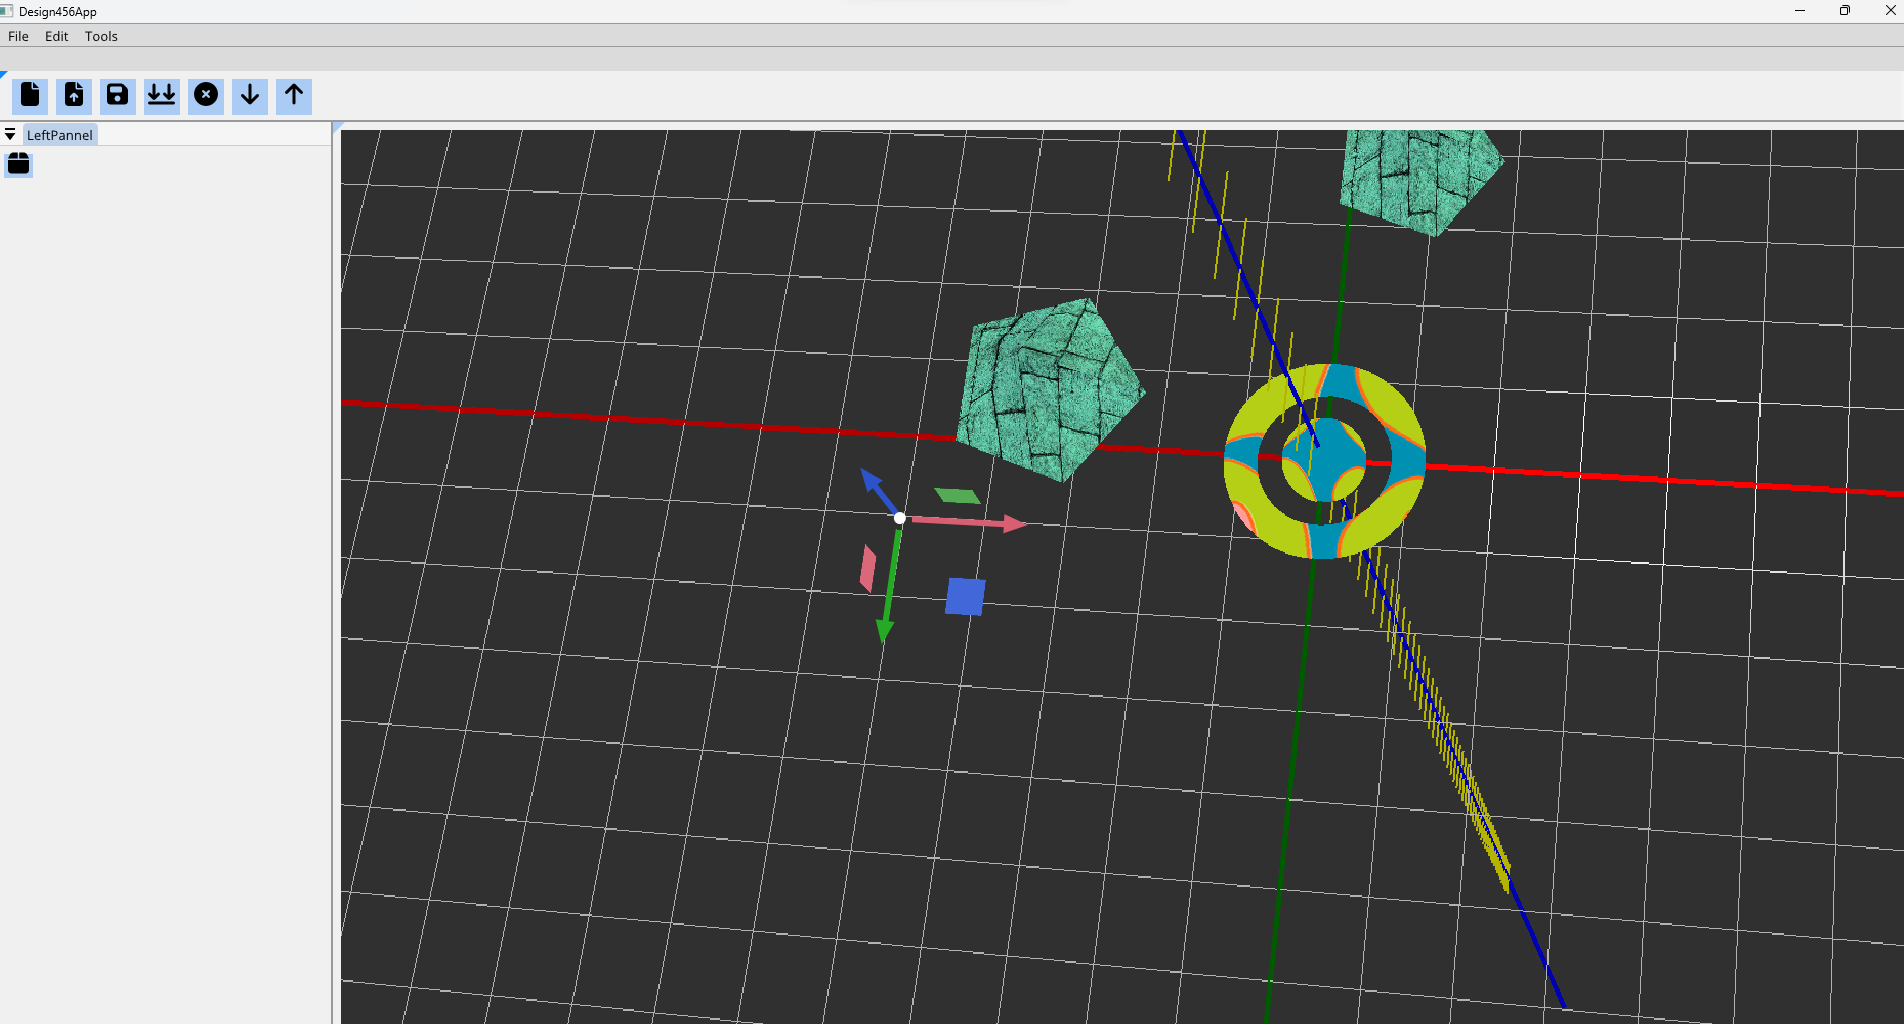
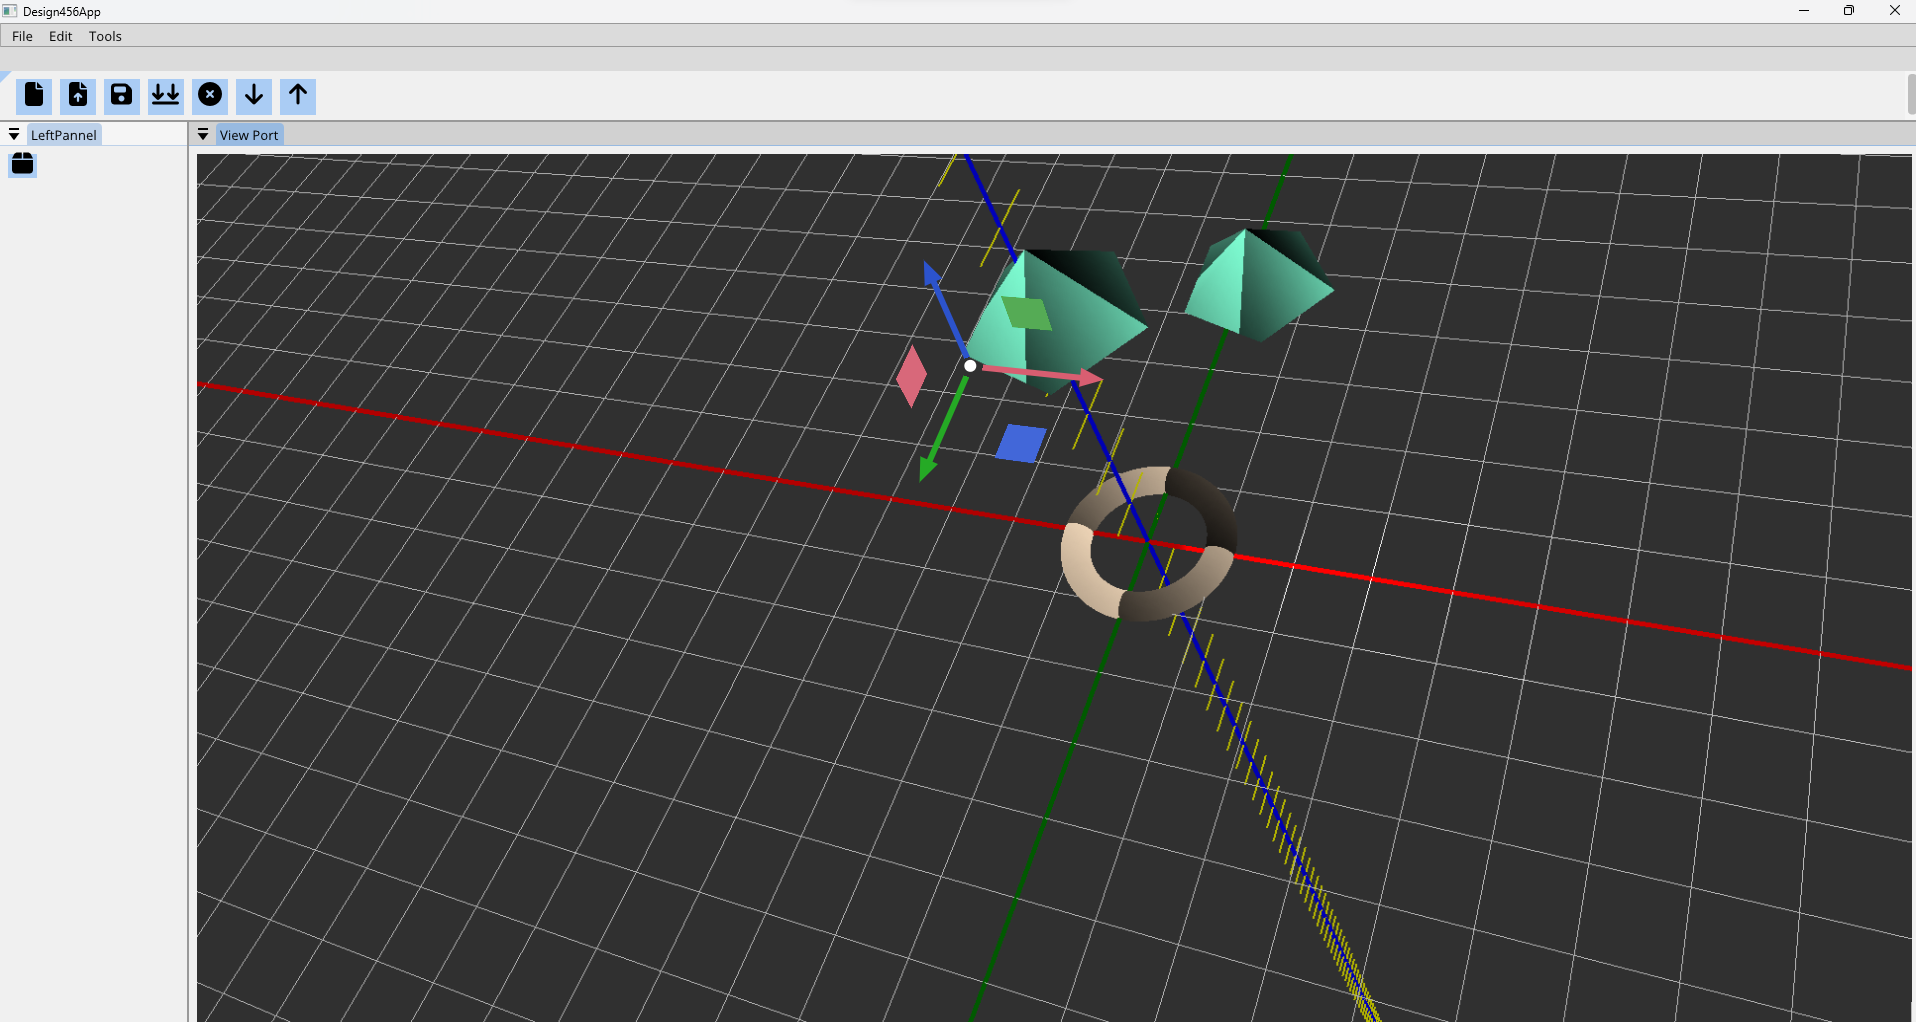
fix default texture

diff --git a/frtk/src/fr_texture2d.cpp b/frtk/src/fr_texture2d.cpp
@@ -9,14 +9,14 @@ Fr_Texture2D::Fr_Texture2D() {
     m_LocalBuffer = NULL;
     m_RendererID = -1;
 }
-bool Fr_Texture2D::set2DTexture(std::string& path) {
+bool Fr_Texture2D::set2DTexture(std::string path) {
     m_FilePath = path;
     m_BPP = 0;
     numComponents = 0;
     stbi_set_flip_vertically_on_load(1);
     m_LocalBuffer = 0;
     if (m_FilePath.size() == 0) {
-        m_FilePath = "E:/Projects/Design456App/resources/Texture/4.png";    ///Default texture 
+        m_FilePath = "E:/Projects/Design456App/resources/Texture/default.png";    ///Default texture 
     }
     m_LocalBuffer = stbi_load(m_FilePath.c_str(), &m_width, &m_height, &m_BPP, numComponents);
     if (m_LocalBuffer == NULL) {
@@ -26,6 +26,9 @@ bool Fr_Texture2D::set2DTexture(std::string& path) {
     return true;
 }
 bool Fr_Texture2D::setup2DTexture() {
+    if (m_LocalBuffer == NULL) {
+        set2DTexture();
+    }
     glCheckFunc(glCreateTextures(GL_TEXTURE_2D, 1, &m_RendererID));
     if (m_BPP == 3) {
         glCheckFunc(glTextureStorage2D(m_RendererID, 1, GL_RGB8, m_width, m_height));
@@ -33,8 +36,8 @@ bool Fr_Texture2D::setup2DTexture() {
     else if (m_BPP == 4) {
         glCheckFunc(glTextureStorage2D(m_RendererID, 1, GL_RGBA8, m_width, m_height));
     }
-    glCheckFunc(glTexParameteri(GL_TEXTURE_2D, GL_TEXTURE_MIN_FILTER, GL_LINEAR));
-    glCheckFunc(glTexParameteri(GL_TEXTURE_2D, GL_TEXTURE_MAG_FILTER, GL_LINEAR));
+    glCheckFunc(glTexParameteri(GL_TEXTURE_2D, GL_TEXTURE_MIN_FILTER, GL_NEAREST));
+    glCheckFunc(glTexParameteri(GL_TEXTURE_2D, GL_TEXTURE_MAG_FILTER, GL_NEAREST));
     glCheckFunc(glTexParameteri(GL_TEXTURE_2D, GL_TEXTURE_WRAP_S, GL_CLAMP_TO_EDGE));
     glCheckFunc(glTexParameteri(GL_TEXTURE_2D, GL_TEXTURE_WRAP_T, GL_CLAMP_TO_EDGE));
     if (m_BPP == 3) {

diff --git a/frtk/src/fr_scene.cpp b/frtk/src/fr_scene.cpp
@@ -67,14 +67,14 @@ void Scene::add3DObject(std::string fName)
   //  std::string imag = ("E:/Projects/Design456App/resources/Texture/ts.png");
     //std::string imag = ("E:/Projects/Design456App/resources/Texture/2.png");
     //std::string imag = ("E:/Projects/Design456App/resources/Texture/3.png");
-    std::string imag = ("E:/Projects/Design456App/resources/Texture/default.png");
+    //std::string imag = ("E:/Projects/Design456App/resources/Texture/default.png");
     
-    if (newObj->m_Texture2D->set2DTexture(imag))
-    {
-            newObj->m_Texture2D->setup2DTexture();      //Dont forget to do this always
-    }else
-        DEBUG_BREAK;
-
+    //if (newObj->m_Texture2D->set2DTexture(imag))
+    //{
+    //        newObj->m_Texture2D->setup2DTexture();      //Dont forget to do this always
+    //}else
+    //    DEBUG_BREAK;
+    newObj->m_Texture2D->setup2DTexture();      //Dont forget to do this always
     if (fName.find(".off") != std::string::npos) {
         newObj->SetMesh(std::make_shared<Shape>(fName));
     }

diff --git a/frtk/src/fr_grid.cpp b/frtk/src/fr_grid.cpp
@@ -49,10 +49,10 @@ std::shared_ptr<Transform>bunny() {
     //std::string imag = ("E:/Projects/Design456App/resources/Texture/Surface.png");
    // std::string imag = ("E:/Projects/Design456App/resources/Texture/2.png");
     //std::string imag = ("E:/Projects/Design456App/resources/Texture/3.png");
-    std::string imag = ("E:/Projects/Design456App/resources/Texture/default.png");
-    if (!bunny->m_Texture2D->set2DTexture(imag)) {
-        DEBUG_BREAK;
-    }
+    //std::string imag = ("E:/Projects/Design456App/resources/Texture/default.png");
+    ///*if (!bunny->m_Texture2D->set2DTexture(imag)) {
+    //    DEBUG_BREAK;
+    //}*/
     bunny->m_Texture2D->setup2DTexture();
     //bunny->SetMesh(std::make_shared<Shape>("E:/Projects/Design456App/resources/mesh/Wedge.off"));
     auto Bunny_spot = std::make_shared<Light>();

diff --git a/frtk/src/fr_texture2d.h b/frtk/src/fr_texture2d.h
@@ -6,7 +6,7 @@
 class Fr_Texture2D {
 public:
     Fr_Texture2D();
-    bool set2DTexture(std::string& path);
+    bool set2DTexture(std::string path="");
     ~Fr_Texture2D();
     bool setup2DTexture();
     void Bind(unsigned int slot = 0);
